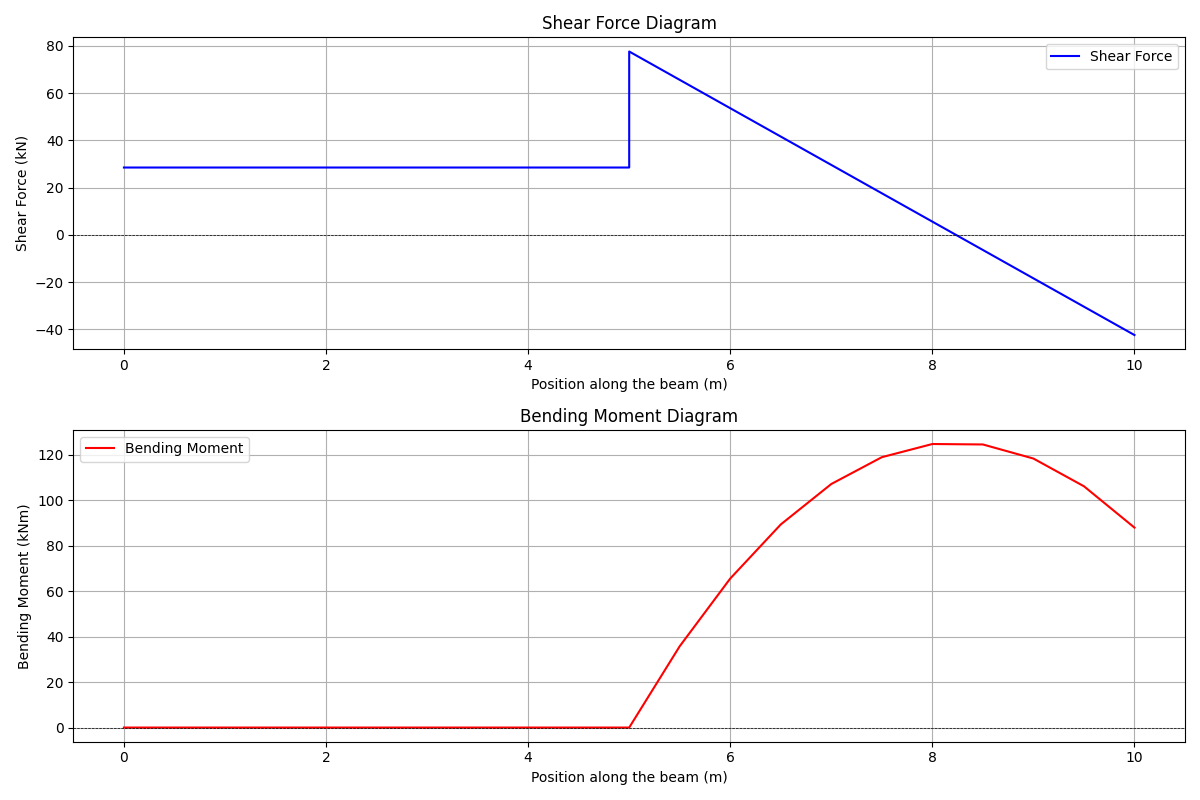
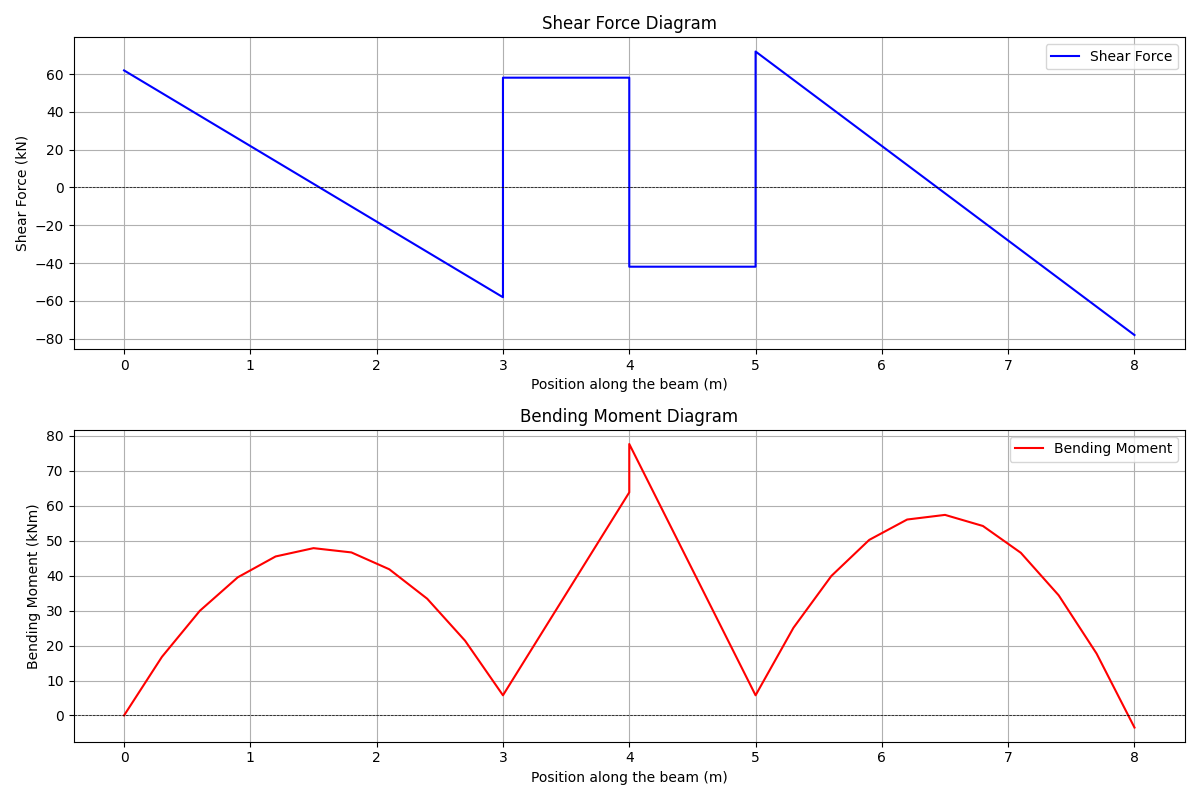
splitted bm and sf function

diff --git a/backend/testing.py b/backend/testing.py
@@ -249,144 +249,97 @@ class BeamAnalysis:
             self.reactions[i] += reaction_a
             self.reactions[i + 1] += reaction_b
 
-
         # Print the results
         print("Reactions at Supports:")
         for i, reaction in enumerate(self.reactions):
             print(f"Support {i + 1} (Position {self.supports[i]['position']} m): {reaction:.3f} kN\n")
 
+    def calculate_shear_force(self):
+        """Calculate shear forces at critical points along the beam."""
+        print("\nCalculating Shear Forces...")
+        shear_forces = []
 
-    def calculate_shear_and_bending(self):
-        """Calculate shear force and bending moment distributions."""
-        print("Calculating Shear Force and Bending Moment Distributions...")
-
-        x_vals = []  # Positions along the beam
-        shear_vals = []  # Shear force values
-        moment_vals = []  # Bending moment values
-
-        carry_over_moment = 0  # Moment carried over to the next span
-
+        # Loop through each span
         for i, span in enumerate(self.spans):
-            # Calculate the span length
             l = self.supports[i + 1]["position"] - self.supports[i]["position"]
             reaction_a = self.reactions[i]
             reaction_b = self.reactions[i + 1]
 
-            # Initialize shear force and bending moment at the left end
+            # Start of the span
             sf = reaction_a
-            bm = carry_over_moment  # Start with the carried-over moment
-            x = self.supports[i]["position"]
+            shear_forces.append((self.supports[i]["position"], sf))
 
-            # Add initial values at the left support
-            x_vals.append(x)
-            shear_vals.append(sf)
-            moment_vals.append(bm)
-
-            # Process each load on the span
+            # Process loads
             for load in span["loads"]:
                 load_type = load["type"]
 
-                if load_type == "udl":
-                    # Uniformly Distributed Load (UDL) over the entire span
-                    w = load["magnitude"]  # Load magnitude (kN/m)
-                    num_points = 10  # Number of divisions for the curve
+                if load_type == "point_distance":
+                    p = load["magnitude"]
+                    a = load["a"]
 
-                    for j in range(num_points + 1):
-                        x_pos = x + (j / num_points) * l
-                        x_vals.append(x_pos)
+                    # Just left of the point load
+                    shear_forces.append((self.supports[i]["position"] + a, sf))
 
-                        # Shear force: S(x) = Reaction_A - w * x
-                        sf = reaction_a - w * (x_pos - x)
-                        shear_vals.append(sf)
-
-                        # Bending moment: M(x) = Carry-over moment + Reaction_A * x - (w * x²) / 2
-                        bm = carry_over_moment + reaction_a * (x_pos - x) - (w * (x_pos - x)**2) / 2
-                        moment_vals.append(bm)
-
-                    # Update x to the end of the span after the UDL
-                    x += l
-
-                elif load_type == "point_center":
-                    # Point Load at the center
-                    p = load["magnitude"]  # Point load magnitude (kN)
-                    a = l / 2  # Distance from the left support to the point load
-                    load_position = x + a
-
-                    # Calculate bending moment for the left side of the point load (before the load)
-                    num_points = 5  # Divide the span for smoother curves
-                    for j in range(num_points + 1):
-                        pos = x + (j / num_points) * a
-                        bm = carry_over_moment + reaction_a * (pos - x)  # Moment = Reaction_A * distance
-                        x_vals.append(pos)
-                        shear_vals.append(sf)
-                        moment_vals.append(bm)
-
-                    # Add bending moment at the load position
-                    bm = carry_over_moment + reaction_a * a
-                    x_vals.append(load_position)
-                    shear_vals.append(sf)
-                    moment_vals.append(bm)
-
-                    # Update shear force after the point load (subtract the point load)
+                    # Just right of the point load
                     sf -= p
+                    shear_forces.append((self.supports[i]["position"] + a, sf))
 
-                    # Bending moment after the point load (right side of the load)
-                    for j in range(num_points + 1):
-                        pos = load_position + (j / num_points) * a
-                        bm = carry_over_moment + reaction_b * (x + l - pos)  # Moment = Reaction_B * distance
-                        x_vals.append(pos)
-                        shear_vals.append(sf)
-                        moment_vals.append(bm)
+                elif load_type == "udl":
+                    w = load["magnitude"]
 
-                elif load_type == "point_load":
-                    # General Point Load at any position
-                    p = load["magnitude"]  # Point load magnitude (kN)
-                    load_position = load["position"]  # Position of the load along the span
+                    # Shear force just left of UDL midpoint
+                    midpoint = self.supports[i]["position"] + l / 2
+                    sf_mid = sf - (w * l / 2)
+                    shear_forces.append((midpoint, sf_mid))
 
-                    # Before the point load, calculate the shear and bending moment
-                    for j in range(5):
-                        x_pos = x + (j / 5) * (load_position - x)
-                        sf = reaction_a - p * (x_pos - x) / (load_position - x)
-                        bm = carry_over_moment + reaction_a * (x_pos - x) - (p * (x_pos - x)**2) / 2
-                        x_vals.append(x_pos)
-                        shear_vals.append(sf)
-                        moment_vals.append(bm)
+                    # Shear force at the end of the UDL
+                    sf -= w * l
+                    shear_forces.append((self.supports[i + 1]["position"], sf))
 
-                    # After the point load, calculate the shear and bending moment
-                    sf -= p  # Shear force decreases by the magnitude of the point load
-                    for j in range(5):
-                        x_pos = load_position + (j / 5) * (x + l - load_position)
-                        bm = carry_over_moment + reaction_b * (x + l - x_pos) - (p * (x_pos - load_position)**2) / 2
-                        x_vals.append(x_pos)
-                        shear_vals.append(sf)
-                        moment_vals.append(bm)
+            # End of the span
+            shear_forces.append((self.supports[i + 1]["position"], 0))
 
-            # Final bending moment at the right support of the current span
-            carry_over_moment = moment_vals[-1]  # Update carry-over moment to the last calculated value
+        # Print results
+        for position, sf in shear_forces:
+            print(f"Position: {position:.2f} m, Shear Force: {sf:.2f} kN")
 
-            # Explicitly add the moment at the right support
-            bm = carry_over_moment
-            x_vals.append(self.supports[i + 1]["position"])
-            shear_vals.append(sf)
-            moment_vals.append(bm)
-
-        # Print key points
-        print("\nKey Points (Shear Force and Bending Moment):")
-        for x, sf, bm in zip(x_vals, shear_vals, moment_vals):
-            print(f"Position: {x:.2f} m, Shear Force: {sf:.5f} kN, Bending Moment: {bm:.5f} kNm")
-
-        print("Shear Force and Bending Moment Distributions calculated successfully.")
-        return x_vals, shear_vals, moment_vals
-
-
+        return shear_forces
     
-    def plot_diagrams(self, x_vals, shear_vals, moment_vals, save_path):
+    def calculate_bending_moment(self, shear_forces):
+        """Calculate bending moments at critical points along the beam."""
+        print("\nCalculating Bending Moments...")
+        bending_moments = []
+
+        # Loop through the shear force results
+        for i in range(len(shear_forces) - 1):
+            x1, sf1 = shear_forces[i]
+            x2, sf2 = shear_forces[i + 1]
+
+            # Linear variation of bending moment between points
+            bm1 = 0 if i == 0 else bending_moments[-1][1]
+            bm2 = bm1 + sf1 * (x2 - x1)
+            bending_moments.append((x2, bm2))
+
+        # Print results
+        for position, bm in bending_moments:
+            print(f"Position: {position:.2f} m, Bending Moment: {bm:.2f} kNm")
+
+        return bending_moments
+
+
+    def plot_diagrams(self, shear_forces, bending_moments):
         """Plot shear force and bending moment diagrams."""
         plt.figure(figsize=(12, 8))
 
-        # Shear Force Diagram
+        # Extract positions, shear forces, and bending moments
+        x_shear = [point[0] for point in shear_forces]
+        y_shear = [point[1] for point in shear_forces]
+        x_bending = [point[0] for point in bending_moments]
+        y_bending = [point[1] for point in bending_moments]
+
+        # Plot Shear Force Diagram
         plt.subplot(2, 1, 1)
-        plt.plot(x_vals, shear_vals, label="Shear Force", color="blue")
+        plt.step(x_shear, y_shear, where="post", label="Shear Force", color="blue")
         plt.axhline(0, color="black", linewidth=0.5, linestyle="--")
         plt.title("Shear Force Diagram")
         plt.xlabel("Position along the beam (m)")
@@ -394,9 +347,9 @@ class BeamAnalysis:
         plt.grid()
         plt.legend()
 
-        # Bending Moment Diagram
+        # Plot Bending Moment Diagram
         plt.subplot(2, 1, 2)
-        plt.plot(x_vals, moment_vals, label="Bending Moment", color="red")
+        plt.plot(x_bending, y_bending, label="Bending Moment", color="red")
         plt.axhline(0, color="black", linewidth=0.5, linestyle="--")
         plt.title("Bending Moment Diagram")
         plt.xlabel("Position along the beam (m)")
@@ -404,10 +357,10 @@ class BeamAnalysis:
         plt.grid()
         plt.legend()
 
+        # Show the plots
         plt.tight_layout()
-        plt.savefig(save_path)
         plt.show()
-        plt.close()
+
 
     def analyze(self):
         """Run the complete beam analysis process."""
@@ -429,18 +382,14 @@ class BeamAnalysis:
         # Step 5: Calculate Reactions
         self.calculate_reactions()
 
-        # Step 6: Calculate Shear and Bending Moment Distributions
-        x_vals, shear_vals, moment_vals = self.calculate_shear_and_bending()
+        # Step 6: Calculate Shear Forces
+        shear_forces = self.calculate_shear_force()
 
-        # Step 7: Plot Diagrams for Shear Force and Bending Moments
-        save_path = "shear_and_bending_diagrams.png"
-        self.plot_diagrams(x_vals, shear_vals, moment_vals, save_path)
+        # Step 7: Calculate Bending Moments
+        bending_moments = self.calculate_bending_moment(shear_forces)
 
-        # Step 8: Summarize Key Results
-        print("\n=== Analysis Results ===")
-        print("Supports:")
-        for i, support in enumerate(self.supports):
-            print(f"Support {i + 1}: Type = {support['type']}, Position = {support['position']} m")
+        # Step 8: Plot Diagrams
+        self.plot_diagrams(shear_forces, bending_moments)
 
         print("\nFixed-End Moments:")
         for i, fem in enumerate(self.fixed_end_moments):
@@ -458,7 +407,7 @@ class BeamAnalysis:
         for i, reaction in enumerate(self.reactions):
             print(f"Support {i + 1}: Reaction = {reaction:.3f} kN")
 
-        print("\nShear Force and Bending Moment Diagrams saved to:", save_path)
+        # print("\nShear Force and Bending Moment Diagrams saved to:", save_path)
 
         print("\nAnalysis Complete.")
 
